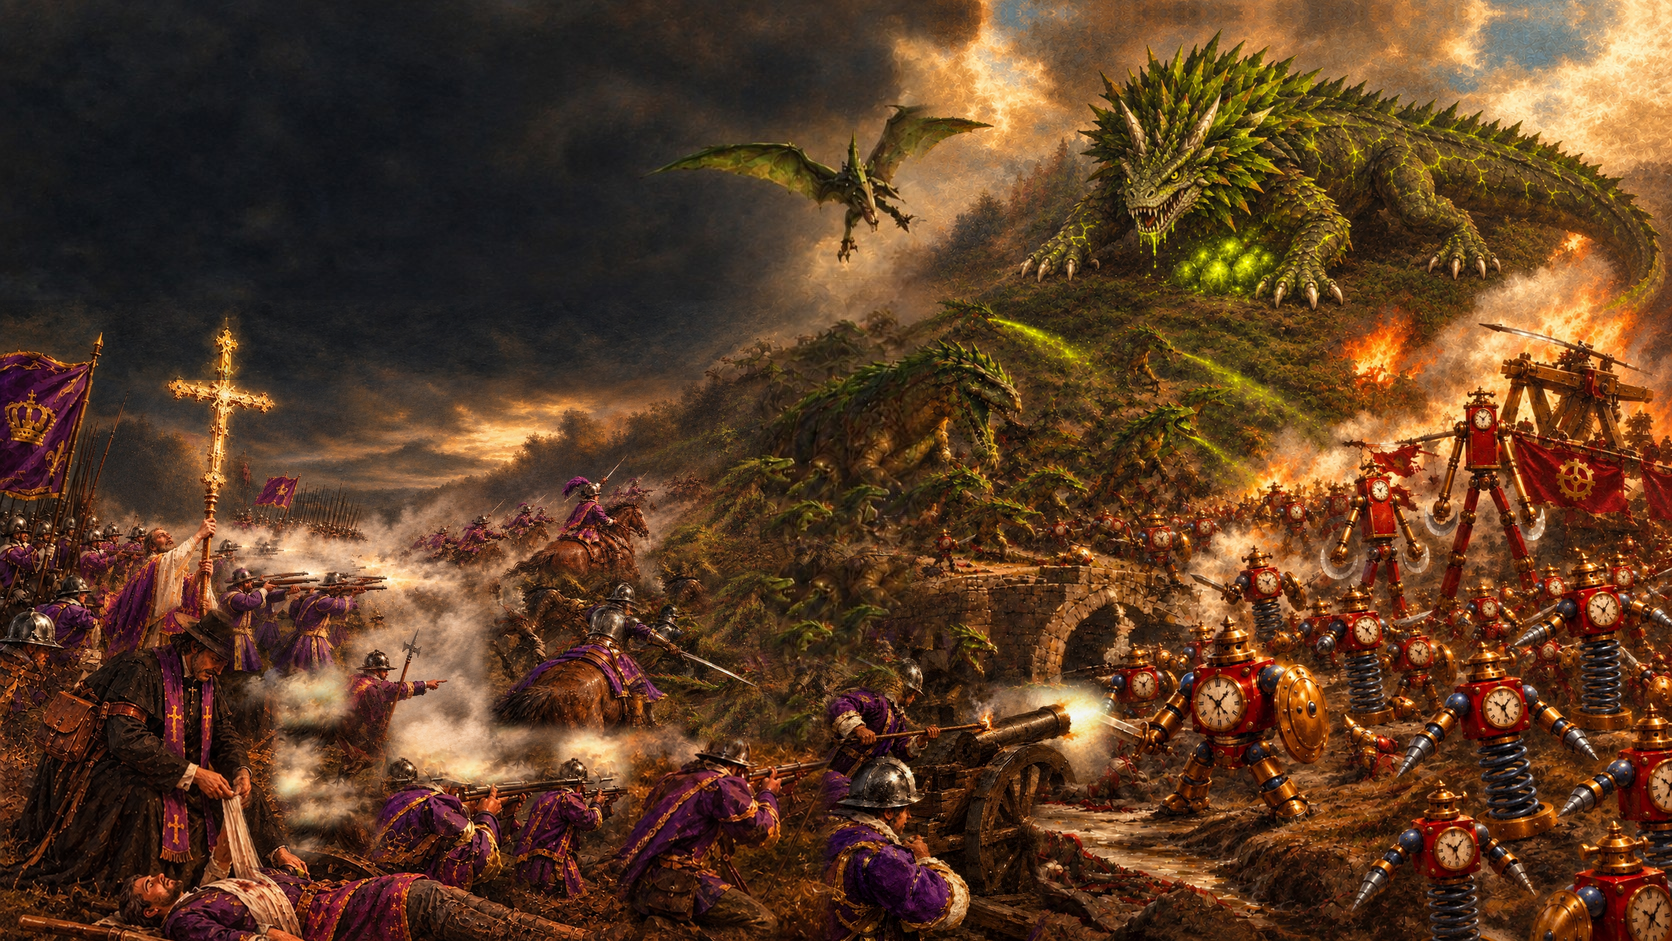
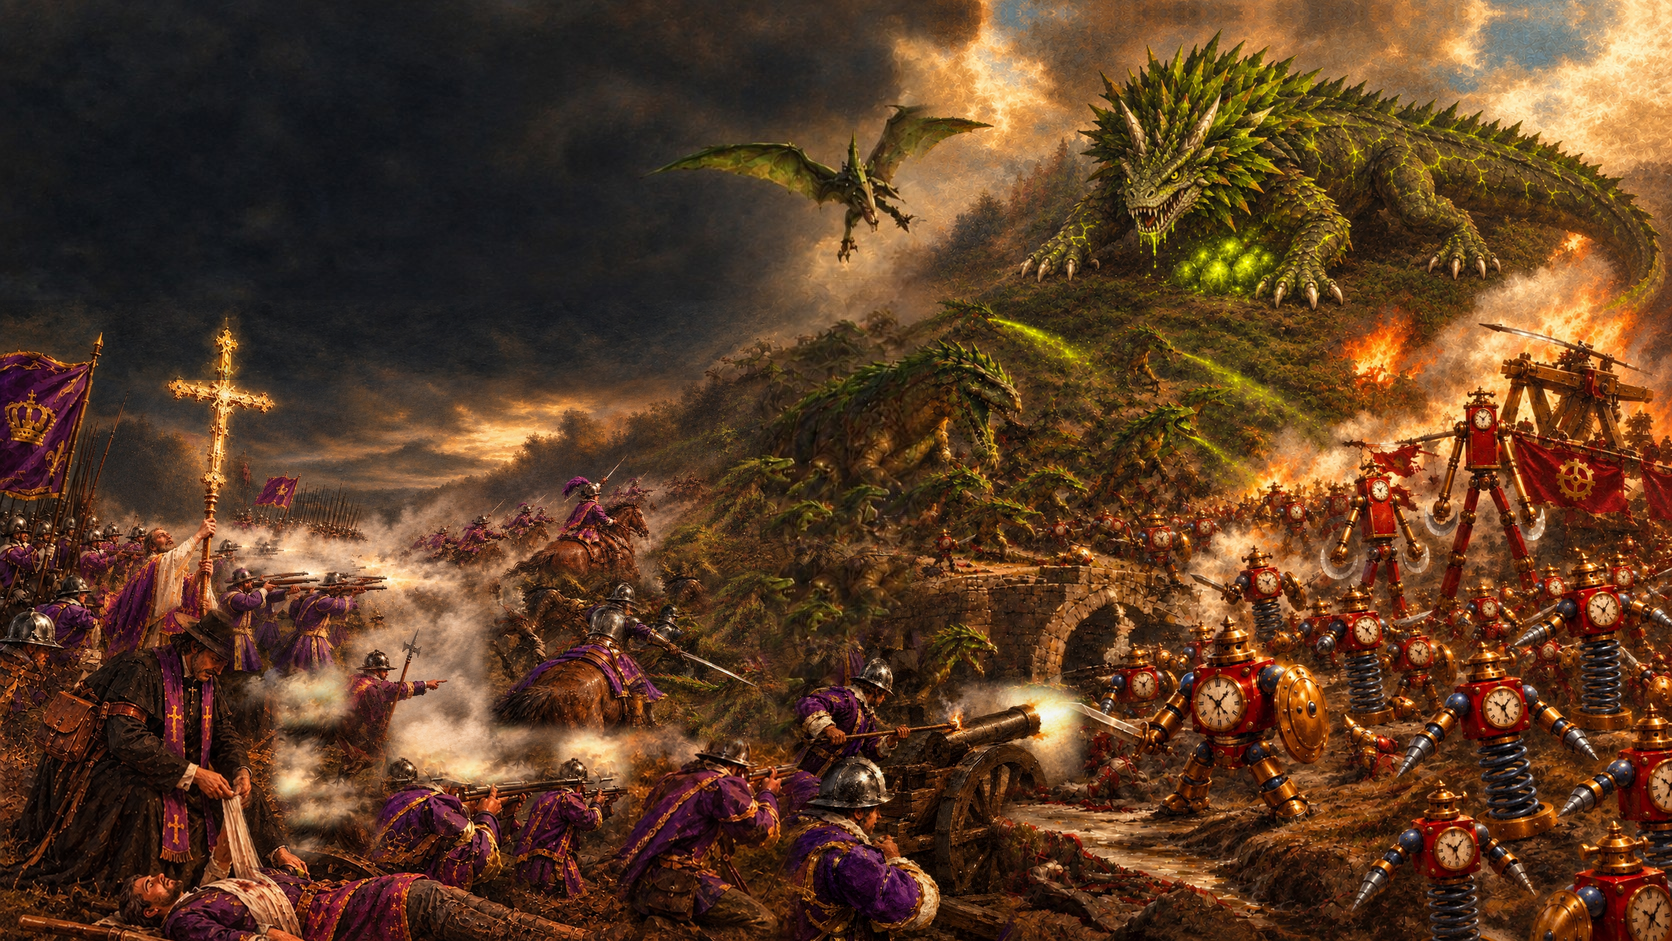
0.33.41: menu painting: the horseman moved back, the cannon re-laid from the corrected gunner picture and drawn back; the Brood tide crop refreshed
Claude-Session: https://claude.ai/code/session_01NtmEZhP1uA8k4DLQ7BYfMz

Changed region(s): [[0.4665, 0.6164, 0.6842, 1.0], [0.4043, 0.7088, 0.4354, 0.7396]]

diff --git a/README.md b/README.md
@@ -2,7 +2,7 @@
 
 *(a working title: the game was called Holdfast until October 2026, but that name belongs to another game; the web address, the app file and the repository keep the old name for now so links and installs keep working)*
 
-**Play in your browser (version 0.33.40): https://holdfastrts.github.io/Holdfast/**
+**Play in your browser (version 0.33.41): https://holdfastrts.github.io/Holdfast/**
 
 **Windows program: https://holdfastrts.github.io/Holdfast/Holdfast_windows.zip** (rebuilt on every push; unzip it and run Holdfast.exe; if Windows warns "Windows protected your PC", click More info, then Run anyway)
 
